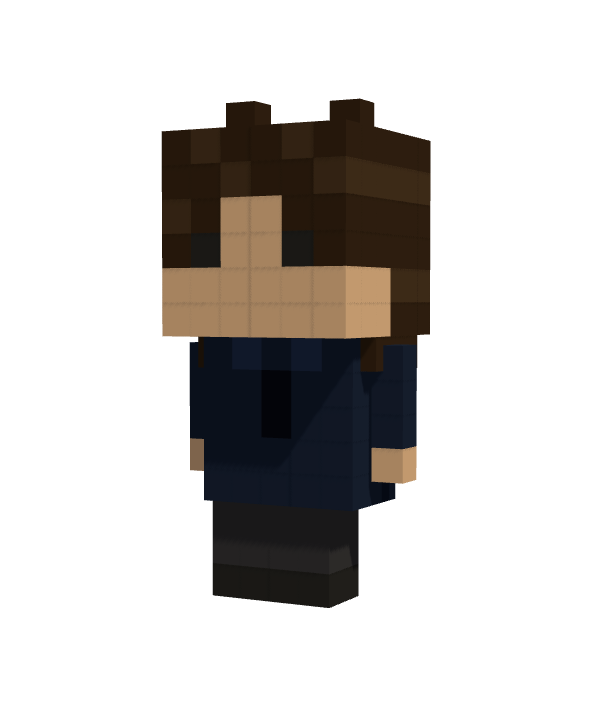
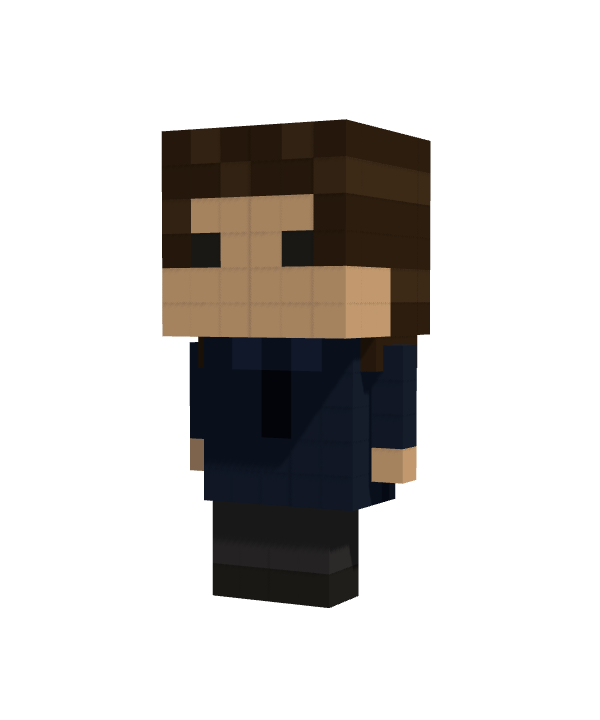
Members: photos, no horns, town characters mapped to members, two-handed bat

diff --git a/src/scripts/diorama.js b/src/scripts/diorama.js
@@ -150,7 +150,7 @@ function makeChar(opts = {}) {
   for (let y = 0; y < 6; y++) for (let i = -3; i < 3; i++) for (let k = -3; k < 3; k++) {
     let hair = y >= 4 || k <= -1 || (y >= 3 && (i === -3 || i === 2));
     if (medium) hair = hair || (k <= 0 && y >= 1) || (y === 3 && k === 2 && i >= 1);                     // 横髪は目の上まで、前髪は右端だけ
-    if (parted) hair = hair || (y >= 2 && (i === -3 || i === 2)) || (k <= 0 && y >= 2) || (y === 3 && k === 2 && i !== -1 && i !== 0);   // 真ん中だけ額が見える
+    if (parted) hair = hair || (y >= 2 && (i === -3 || i === 2)) || (k <= 0 && y >= 2) || (y === 3 && k === 2 && (i === -3 || i === 2));   // 前髪は両端だけ。額と目は見せる
     if (curly)  hair = hair || (y >= 1 && (i === -3 || i === 2)) || (k <= 0 && y >= 1) || (y === 3 && k === 2 && i !== -1 && i !== 0);   // 顔の周りを髪が囲む、額の真ん中だけ見える
     if (bangs)  hair = hair || (y === 3 && k === 2);                                                        // 前髪を額いっぱいに下ろす
     let c = hair ? ((i + y) % 3 === 0 ? (P.hairLight || P.hair) : P.hair) : P.skin;
@@ -164,8 +164,7 @@ function makeChar(opts = {}) {
     for (let i = -3; i < 3; i++) for (let k = -3; k < 2; k++) if ((i * 7 + k * 3) % 4 !== 0) head.push({ x: i + 0.5, y: 6.5, z: k + 0.5, c: P.hair });   // 頭頂のふくらみ
     for (const [i, k] of [[-4, 2], [3, 2]]) head.push({ x: i + 0.5, y: 2.5, z: k + 0.5, c: P.hair });    // 頬の横にかかる毛先
   }
-  if (HS === 'spiky') for (const [i, k] of [[-2, -1], [0, 0], [1, -2], [-1, 1], [2, -1]]) head.push({ x: i + 0.5, y: 6.5, z: k + 0.5, c: P.hair });   // 立った毛束
-  if (!curly && HS !== 'spiky') head.push({ x: 1.5, y: 6.5, z: -0.5, c: P.hair }, { x: -1.5, y: 6.5, z: 0.5, c: P.hair });
+  if (HS === 'spiky') for (let i = -2; i < 2; i++) for (let k = -2; k < 2; k++) if ((i + k) % 2 === 0) head.push({ x: i + 0.5, y: 6.5, z: k + 0.5, c: P.hair });   // 頭頂が少し立つ（市松状の薄い層）
   const headM = part(head, [0, 2.0, 0]); torso.add(headM);
   if (P.glasses) {                                                   // 眼鏡: 半分の大きさのブロックで、目の周りの枠・ブリッジ・つる
     const gv = [];
@@ -177,6 +176,16 @@ function makeChar(opts = {}) {
   g.add(legL, legR, torso);
   return { g, legL, legR, torso, armL, armR, head: headM };
 }
+
+// メンバーごとの見た目（members.yaml の id と対応）。名刺の人形と街の人形の両方で使う
+export const MEMBER_LOOKS = {
+  kimura:    { hair: 0x1c1c1c, hairLight: 0x2a2a2a, glasses: 0x1b1b1b, jacket: 0x5a4636, shirt: 0xdbe7f3, shirtShade: 0xc9d6e4, tie: 0x2f3a6c, pants: 0x3a3a40, shoe: 0x2b2b2b },
+  tachikawa: { hair: 0x151515, hairLight: 0x262626, hairStyle: 'medium', shirt: 0x262626, shirtShade: 0x171717, inner: 0xf4f4f4, pants: 0x2f3a5c, shoe: 0x2b2b2b },
+  shiiba:    { hair: 0x1a1a1a, hairLight: 0x2d2d2d, hairStyle: 'spiky', glasses: 0x1b1b1b, shirt: 0x4a4046, shirtShade: 0x332b31, pants: 0x33363d, shoe: 0x2b2b2b },
+  kuboya:    { hair: 0x3b2a1b, hairLight: 0x4e3a27, hairStyle: 'parted', shirt: 0x1e2a44, shirtShade: 0x141d33, buttons: 0x0b1020, collar: 0x2a3a60, pants: 0x3a3a40, shoe: 0x2b2b2b },
+  kudo:      { hair: 0x111111, hairLight: 0x2a2a2a, hairStyle: 'curly', shirt: 0xf4f4f4, shirtShade: 0xdcdcdc, pants: 0x2f3a5c, shoe: 0x2b2b2b },
+  kaneko:    { hair: 0x161616, hairLight: 0x262626, hairStyle: 'bangs', shirt: 0x2f4b45, shirtShade: 0x233934, pants: 0x4a6b9c, shoe: 0x3a3a3a },
+};
 
 // 1 人分の人形を透明背景の画像にする（メンバー紹介用）。opts は makeChar と同じ
 export function renderPortrait(opts = {}, { w = 600, h = 720, pose = 'stand', angle = -0.45 } = {}) {
@@ -199,7 +208,7 @@ export function renderPortrait(opts = {}, { w = 600, h = 720, pose = 'stand', an
 }
 
 // 手に持つ小物（腕の先に付ける）
-function stick(len, color) { const v = []; for (let i = 0; i < len; i++) v.push({ x: 0, y: -3 - i + 0.5, z: 0, c: color }); return makeVoxels(v, CHAR_V); }
+function bat(len, color) { const v = [{ x: 0, y: -3.5, z: -0.5, c: color }]; for (let i = 0; i < len; i++) v.push({ x: 0, y: -3.5, z: i + 0.5, c: color }); return makeVoxels(v, CHAR_V); }   // 手の位置（腕の先端）から腕と直角に伸びるバット
 
 export function createDiorama(canvas, { themeName = 'yellow', seasonName = seasonForDate(), base = '/' } = {}) {
   let t = THEMES[themeName] || THEMES.yellow;
@@ -361,14 +370,14 @@ export function createDiorama(canvas, { themeName = 'yellow', seasonName = seaso
   // ---- 登場人物 6 人（統一デザイン）。動きは frame() で付ける ----
   const chars = {};
   const GROUND_Y = 1;                                     // 地面の上面の高さ
-  const place = (key, x, z, ry) => { const c = makeChar(); c.g.position.set(x, GROUND_Y, z); c.g.rotation.y = ry; world.add(c.g); chars[key] = c; return c; };
-  place('catchA', -11, 18, Math.PI / 2);                  // キャッチボール（投げる側）
-  place('catchB', 1, 18, -Math.PI / 2);                   // キャッチボール（受ける側）
-  const batter = place('batter', 9, 2, Math.PI / 2);      // 素振り（大木のすぐ隣、外向き）
-  batter.armR.add(stick(5, 0xc9a06a));                    // バット
-  const climber = place('climber', 0, 0, 0);              // 木登り（幹に張り付く）
-  const runner = place('runner', 15.5, 0, 0);             // 校庭（環状の道）をマラソン
-  place('backpain', -23, 23, -0.8);                       // 腰が痛そうな人（手前左の角）
+  const place = (key, x, z, ry, look) => { const c = makeChar(MEMBER_LOOKS[look] || {}); c.g.position.set(x, GROUND_Y, z); c.g.rotation.y = ry; world.add(c.g); chars[key] = c; return c; };
+  place('catchA', -11, 18, Math.PI / 2, 'tachikawa');              // キャッチボール（投げる側）
+  place('catchB', 1, 18, -Math.PI / 2, 'kudo');                    // キャッチボール（受ける側）
+  const batter = place('batter', 9, 2, Math.PI / 2, 'shiiba');     // 素振り（大木のすぐ隣、外向き）
+  const batMesh = bat(6, 0xc9a06a); batMesh.rotation.y = 0.8; batter.armR.add(batMesh);   // バット（右手に付け、左手も同じ位置に寄せて両手持ちに見せる。肩の斜め上に構える）
+  const climber = place('climber', 0, 0, 0, 'kaneko');             // 木登り（幹に張り付く）
+  const runner = place('runner', 15.5, 0, 0, 'kuboya');            // 校庭（環状の道）をマラソン
+  place('backpain', -23, 23, -0.8, 'kimura');                      // 腰が痛そうな人（手前左の角）
   const ball = new THREE.Mesh(new THREE.SphereGeometry(0.45, 8, 6), new THREE.MeshLambertMaterial({ color: 0xffffff })); ball.castShadow = true; world.add(ball);
 
   // ---- 塔の周りを飛ぶ飛行機 ----
@@ -447,7 +456,7 @@ export function createDiorama(canvas, { themeName = 'yellow', seasonName = seaso
     // 素振り: 構え → 一気に振る → 戻す（3 秒周期）
     const bt = time % 3, sw = bt < 1.8 ? 0 : bt < 2.1 ? (bt - 1.8) / 0.3 : bt < 2.6 ? 1 : 1 - (bt - 2.6) / 0.4;
     batter.torso.rotation.y = -0.6 + sw * 1.8; batter.head.rotation.y = -0.3 + sw * 0.6;
-    batter.armR.rotation.x = -1.2 + sw * 0.4; batter.armR.rotation.z = -0.6 + sw * 1.6; batter.armL.rotation.x = -1.0; batter.armL.rotation.z = 0.3 + sw * 1.2;
+    batter.armR.rotation.x = -1.0 + sw * 0.25; batter.armR.rotation.z = -0.6; batter.armL.rotation.x = -1.0 + sw * 0.25; batter.armL.rotation.z = 0.6;   // 両腕を内側に寄せて体の前で手を合わせ、バットを両手で握る
     batter.legL.rotation.x = 0.2 - sw * 0.3; batter.legR.rotation.x = -0.1 + sw * 0.3;
     // 木登り: 幹に張り付いて上り下り。手足を交互に動かす
     const cy = 4 + (Math.sin(time * 0.35) * 0.5 + 0.5) * 9, cang = 0.9;
